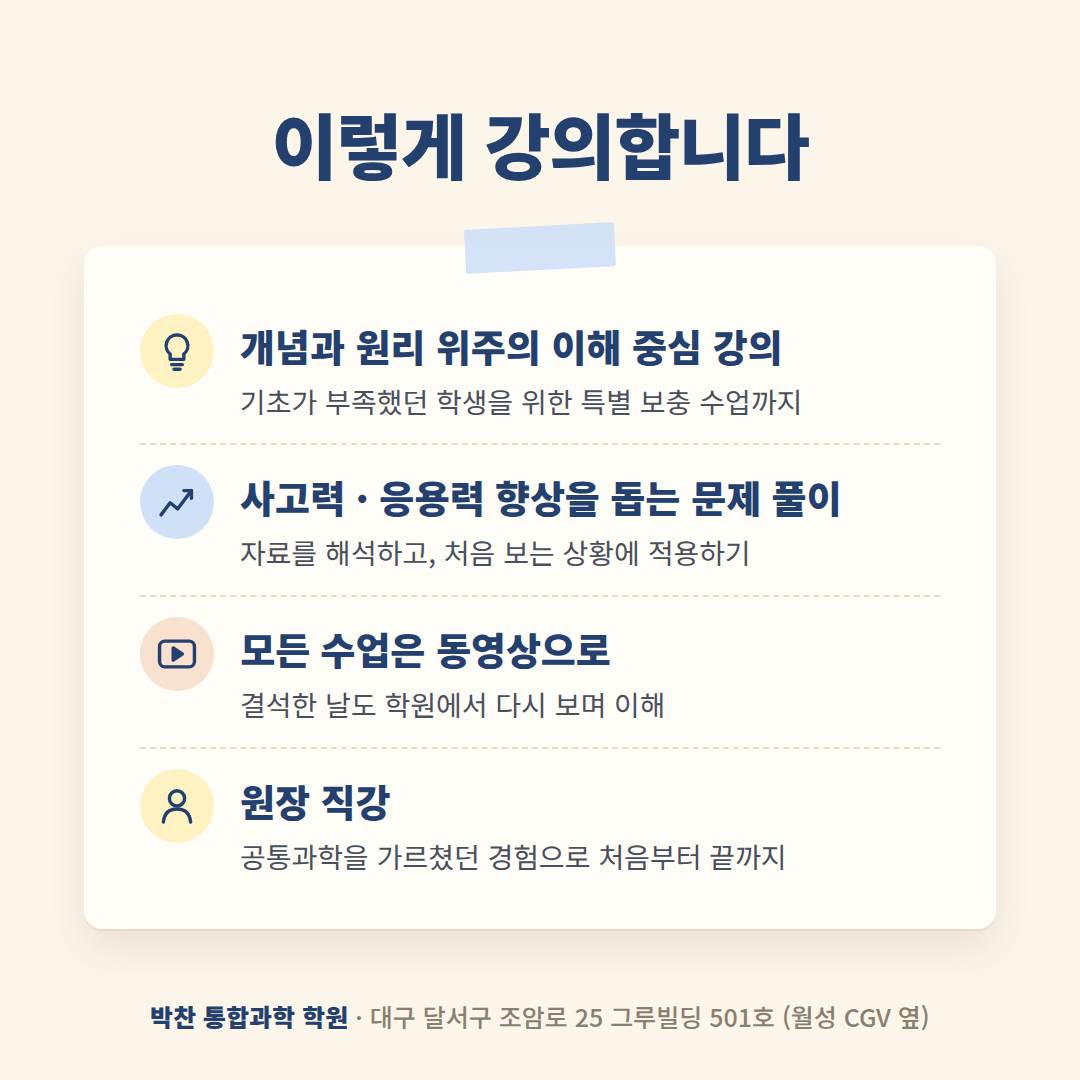
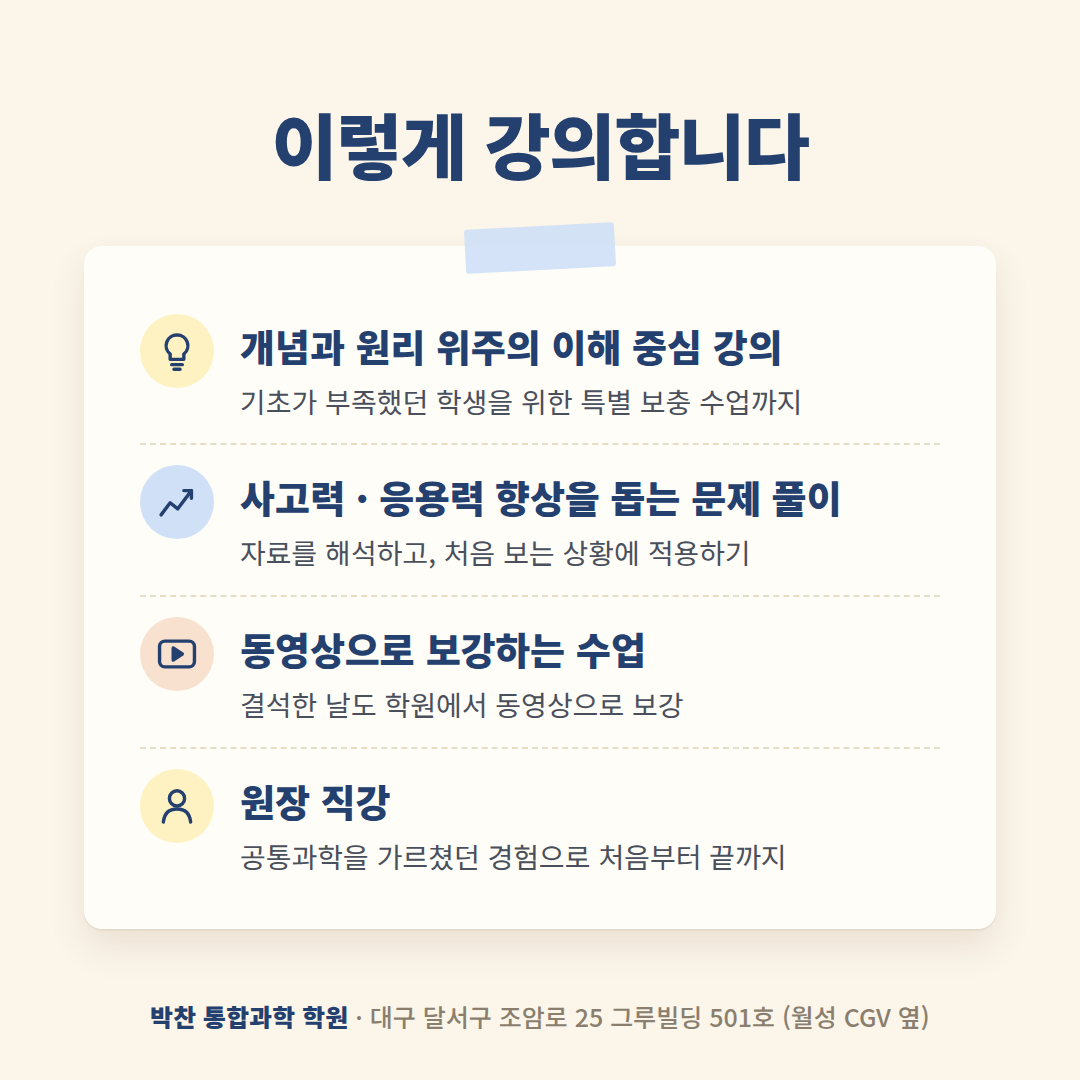
marketing: 상담 시간(오후 2시~10시) 블로그·당근에 넣고 당근 동영상 문구 정리
Claude-Session: https://claude.ai/code/session_01WC7EVNFFJZDdwaC3HYBAmj

Changed region(s): [[0.2139, 0.5806, 0.6417, 0.6722]]

diff --git a/parkchan-science/marketing/daangn-01/kit.html b/parkchan-science/marketing/daangn-01/kit.html
@@ -34,7 +34,7 @@ ol.how{margin:0;padding-left:20px;font-size:14.5px;color:var(--body)}ol.how li{m
 · 개념과 원리 위주의 이해 중심 강의
 · 기초가 부족한 학생을 위한 특별 보충 수업
 · 사고력 · 응용력 향상을 돕는 문제 풀이
-· 모든 수업은 동영상으로 — 결석한 날도 학원에서 다시 보기
+· 동영상으로 보강하는 수업 — 결석한 날도 학원에서 보강
 
 반: 중등부 · 고1 예비 · 고1 내신 · 고3 수능
 일주일 무료 수강 후 등록을 결정하실 수 있습니다.
@@ -45,12 +45,12 @@ ol.how{margin:0;padding-left:20px;font-size:14.5px;color:var(--body)}ol.how li{m
 · 개념과 원리 위주의 이해 중심 강의
 · 기초가 부족한 학생을 위한 특별 보충 수업
 · 사고력 · 응용력 향상을 돕는 문제 풀이
-· 모든 수업은 동영상으로 — 결석한 날도 학원에서 다시 보기
+· 동영상으로 보강하는 수업 — 결석한 날도 학원에서 보강
 
 반: 중등부 · 고1 예비 · 고1 내신 · 고3 수능
 일주일 무료 수강 후 등록을 결정하실 수 있습니다.
 
-남교입 제2019-115호</div></div><div class="fld"><div class="lab">주소<button class="cp" data-text="대구 달서구 조암로 25 그루빌딩 501호">복사</button></div><div class="val">대구 달서구 조암로 25 그루빌딩 501호</div></div><div class="fld"><div class="lab">주소 상세 · 찾아오는 길<button class="cp" data-text="월성 CGV 옆 그루빌딩 5층">복사</button></div><div class="val">월성 CGV 옆 그루빌딩 5층</div></div><div class="fld"><div class="lab">전화번호<button class="cp" data-text="053-213-3577">복사</button></div><div class="val">053-213-3577</div></div><div class="fld"><div class="lab">영업시간<button class="cp" data-text="【확인 필요】 상담 받는 요일·시간 — 예: 월~토 오후 2시 ~ 오후 10시 / 수업 시작 오후 5시 30분">복사</button></div><div class="val">【확인 필요】 상담 받는 요일·시간 — 예: 월~토 오후 2시 ~ 오후 10시 / 수업 시작 오후 5시 30분</div></div><div class="fld"><div class="lab">가격(메뉴) — 네 줄 각각 등록</div><div class="price"><span>중등부 주 1회 (월 총 1,042분)</span><b>210,000원</b><button class="cp" data-text="중등부 주 1회 (월 총 1,042분) 210,000원">복사</button></div><div class="price"><span>중등부 주 2회 (월 총 1,303분)</span><b>267,000원</b><button class="cp" data-text="중등부 주 2회 (월 총 1,303분) 267,000원">복사</button></div><div class="price"><span>고등부 주 1회 (월 총 912분)</span><b>220,000원</b><button class="cp" data-text="고등부 주 1회 (월 총 912분) 220,000원">복사</button></div><div class="price"><span>고등부 주 2회 · 고1 예비반 (월 총 1,303분)</span><b>317,000원</b><button class="cp" data-text="고등부 주 2회 · 고1 예비반 (월 총 1,303분) 317,000원">복사</button></div></div><div class="fld"><div class="lab">프로필 사진 · 매장 사진</div><div class="imgs"><figure><img src="images/00_profile.png" alt="프로필 사진 — 박찬 통합과학 학원 글자 로고"><figcaption>프로필 사진(원형으로 잘림)</figcaption></figure><figure><img src="images/photo_sign.png" alt="학원 외벽 간판"><figcaption>매장 사진 · 간판</figcaption></figure><figure><img src="images/photo_banner.png" alt="학원 입구 배너"><figcaption>매장 사진 · 입구</figcaption></figure></div><p class="note">매장 사진은 5장 이상이 좋습니다 — 원장님 폰으로 <b>강의실 · 수업 영상 시청 공간 · 교재 책상</b> 3장을 더 찍어 넣어 주십시오(학생 얼굴은 나오지 않게).</p></div></section>
+남교입 제2019-115호</div></div><div class="fld"><div class="lab">주소<button class="cp" data-text="대구 달서구 조암로 25 그루빌딩 501호">복사</button></div><div class="val">대구 달서구 조암로 25 그루빌딩 501호</div></div><div class="fld"><div class="lab">주소 상세 · 찾아오는 길<button class="cp" data-text="월성 CGV 옆 그루빌딩 5층">복사</button></div><div class="val">월성 CGV 옆 그루빌딩 5층</div></div><div class="fld"><div class="lab">전화번호<button class="cp" data-text="053-213-3577">복사</button></div><div class="val">053-213-3577</div></div><div class="fld"><div class="lab">영업시간 · 상담 시간<button class="cp" data-text="오후 2시 ~ 오후 10시 (수업 시작 오후 5시 30분)">복사</button></div><div class="val">오후 2시 ~ 오후 10시 (수업 시작 오후 5시 30분)</div></div><div class="fld"><div class="lab">가격(메뉴) — 네 줄 각각 등록</div><div class="price"><span>중등부 주 1회 (월 총 1,042분)</span><b>210,000원</b><button class="cp" data-text="중등부 주 1회 (월 총 1,042분) 210,000원">복사</button></div><div class="price"><span>중등부 주 2회 (월 총 1,303분)</span><b>267,000원</b><button class="cp" data-text="중등부 주 2회 (월 총 1,303분) 267,000원">복사</button></div><div class="price"><span>고등부 주 1회 (월 총 912분)</span><b>220,000원</b><button class="cp" data-text="고등부 주 1회 (월 총 912분) 220,000원">복사</button></div><div class="price"><span>고등부 주 2회 · 고1 예비반 (월 총 1,303분)</span><b>317,000원</b><button class="cp" data-text="고등부 주 2회 · 고1 예비반 (월 총 1,303분) 317,000원">복사</button></div></div><div class="fld"><div class="lab">프로필 사진 · 매장 사진</div><div class="imgs"><figure><img src="images/00_profile.png" alt="프로필 사진 — 박찬 통합과학 학원 글자 로고"><figcaption>프로필 사진(원형으로 잘림)</figcaption></figure><figure><img src="images/photo_sign.png" alt="학원 외벽 간판"><figcaption>매장 사진 · 간판</figcaption></figure><figure><img src="images/photo_banner.png" alt="학원 입구 배너"><figcaption>매장 사진 · 입구</figcaption></figure></div><p class="note">매장 사진은 5장 이상이 좋습니다 — 원장님 폰으로 <b>강의실 · 수업 영상 시청 공간 · 교재 책상</b> 3장을 더 찍어 넣어 주십시오(학생 얼굴은 나오지 않게).</p></div></section>
 <section class="box"><h2>② 쿠폰 만들기</h2><div class="fld"><div class="lab">쿠폰 이름<button class="cp" data-text="고1 예비반 일주일 무료 수강">복사</button></div><div class="val">고1 예비반 일주일 무료 수강</div></div><div class="fld"><div class="lab">쿠폰 내용<button class="cp" data-text="현 중3 학생을 위한 고1 예비반 수업을 일주일 동안 무료로 들어 보실 수 있습니다. 상담 전화(053-213-3577) 또는 내원 후 수강 예약을 해 주십시오.">복사</button></div><div class="val">현 중3 학생을 위한 고1 예비반 수업을 일주일 동안 무료로 들어 보실 수 있습니다. 상담 전화(053-213-3577) 또는 내원 후 수강 예약을 해 주십시오.</div></div><div class="fld"><div class="lab">사용 기간<button class="cp" data-text="2026년 10월 13일 ~ 11월 9일 (개강 첫 주까지)">복사</button></div><div class="val">2026년 10월 13일 ~ 11월 9일 (개강 첫 주까지)</div></div><div class="fld"><div class="lab">유의 사항<button class="cp" data-text="고1 예비반(화금반 · 수토반) 대상 · 수강 예약 후 사용">복사</button></div><div class="val">고1 예비반(화금반 · 수토반) 대상 · 수강 예약 후 사용</div></div></section>
 <section class="box"><h2>③ 소식 6편 — 화·금 주 2회</h2><p class="note">첫 줄이 피드에 보이는 문장입니다. 사진을 먼저 올리고 글을 붙여 넣으면 됩니다. 마지막 줄(등록번호·교습비)은 지우지 마십시오.</p><article class="news"><div class="when">소식 1 · 10월 13일(화)</div><div class="imgs"><figure><img src="images/ad_B_cream.png" alt="소식 1 사진 1"></figure><figure><img src="images/02_period.png" alt="소식 1 사진 2"></figure></div><div class="fld"><div class="lab">글<button class="cp" data-text="내년 봄 처음 만나는 &#x27;통합과학&#x27;, 차근차근 준비하실 수 있도록 안내드립니다.
 
@@ -65,7 +65,7 @@ ol.how{margin:0;padding-left:20px;font-size:14.5px;color:var(--body)}ol.how li{m
 이 두 권을 3월 입학 전까지 확실히 지도하겠습니다.
 
 먼저 일주일 들어 보시고 등록을 결정하셔도 됩니다.
-상담 053-213-3577 · 조암로 25 그루빌딩 501호 (월성 CGV 옆)
+상담 053-213-3577 (오후 2시 ~ 10시) · 조암로 25 그루빌딩 501호 (월성 CGV 옆)
 
 남교입 제2019-115호 · 고1 예비반 교습비 월 317,000원(주 2회 · 월 1,303분)">복사</button></div><div class="val big">내년 봄 처음 만나는 &#x27;통합과학&#x27;, 차근차근 준비하실 수 있도록 안내드립니다.
 
@@ -80,7 +80,7 @@ ol.how{margin:0;padding-left:20px;font-size:14.5px;color:var(--body)}ol.how li{m
 이 두 권을 3월 입학 전까지 확실히 지도하겠습니다.
 
 먼저 일주일 들어 보시고 등록을 결정하셔도 됩니다.
-상담 053-213-3577 · 조암로 25 그루빌딩 501호 (월성 CGV 옆)
+상담 053-213-3577 (오후 2시 ~ 10시) · 조암로 25 그루빌딩 501호 (월성 CGV 옆)
 
 남교입 제2019-115호 · 고1 예비반 교습비 월 317,000원(주 2회 · 월 1,303분)</div></div></article><article class="news"><div class="when">소식 2 · 10월 16일(금)</div><div class="imgs"><figure><img src="images/03_twice.png" alt="소식 2 사진 1"></figure></div><div class="fld"><div class="lab">글<button class="cp" data-text="왜 예비반은 주 2회일까요? 원장이 직접 말씀드립니다.
 
@@ -114,8 +114,8 @@ ol.how{margin:0;padding-left:20px;font-size:14.5px;color:var(--body)}ol.how li{m
 ② 사고력 · 응용력 향상을 돕는 문제 풀이
 자료를 해석하고, 처음 보는 상황에 개념을 적용하는 문제를 함께 풉니다.
 
-③ 모든 수업은 동영상으로
-모든 수업은 수업 전에 동영상으로 제작되어 있습니다. 강의 후 부족하다고 느낀 부분이나 결석한 날의 수업도 학원에서 다시 보며 충분히 이해할 수 있습니다.
+③ 동영상으로 보강하는 수업
+모든 수업은 수업 전에 동영상으로 제작되어 있습니다. 강의 후 부족하다고 느낀 부분이나 결석한 날의 수업도 학원에서 동영상으로 보강할 수 있습니다.
 
 ④ 원장 직강
 통합과학의 전신인 공통과학을 가르쳤던 경험과 오랜 입시 지도의 경험으로, 처음부터 끝까지 직접 가르치고 상담합니다.
@@ -130,8 +130,8 @@ ol.how{margin:0;padding-left:20px;font-size:14.5px;color:var(--body)}ol.how li{m
 ② 사고력 · 응용력 향상을 돕는 문제 풀이
 자료를 해석하고, 처음 보는 상황에 개념을 적용하는 문제를 함께 풉니다.
 
-③ 모든 수업은 동영상으로
-모든 수업은 수업 전에 동영상으로 제작되어 있습니다. 강의 후 부족하다고 느낀 부분이나 결석한 날의 수업도 학원에서 다시 보며 충분히 이해할 수 있습니다.
+③ 동영상으로 보강하는 수업
+모든 수업은 수업 전에 동영상으로 제작되어 있습니다. 강의 후 부족하다고 느낀 부분이나 결석한 날의 수업도 학원에서 동영상으로 보강할 수 있습니다.
 
 ④ 원장 직강
 통합과학의 전신인 공통과학을 가르쳤던 경험과 오랜 입시 지도의 경험으로, 처음부터 끝까지 직접 가르치고 상담합니다.

diff --git a/parkchan-science/marketing/daangn-01/images_source.html b/parkchan-science/marketing/daangn-01/images_source.html
@@ -194,7 +194,7 @@ h2{font-size:58px;font-weight:900;line-height:1.3;letter-spacing:-.02em;color:va
  <h2 style="text-align:center;margin-top:18px">고1 예비반 · 일주일 무료 수강</h2>
  <div class="stp4"><div><em>1</em><b>상담 전화<br>또는 내원</b></div><i>›</i><div><em>2</em><b>수강 예약</b></div><i>›</i><div class="now"><em>3</em><b>일주일<br>무료 수강</b></div><i>›</i><div><em>4</em><b>등록 결정</b></div></div>
  <p class="dates">화금반 <b>11월 3일(화)</b> · 수토반 <b>11월 4일(수)</b> 개강<br>주 2회 · 오후 5시 30분 시작</p><div class="tel2"><span>상담<b>053-213-3577</b></span></div></div><div class="foot"><b>박찬 통합과학 학원</b> · 대구 달서구 조암로 25 그루빌딩 501호 (월성 CGV 옆)</div></section>
-<section class="sq cream" id="news"><div class="pad"><h2>이렇게 강의합니다</h2><div class="note"><span class="tape b"></span><div class="row"><div class="ic" style="background:var(--butter2)"><svg width="44" height="44" viewBox="0 0 58 58" fill="none" stroke="#24406F" stroke-width="4.5" stroke-linecap="round" stroke-linejoin="round"><path d="M29 8 a14 14 0 0 1 9 25 L38 40 L20 40 L20 33 A14 14 0 0 1 29 8 Z"/><path d="M22 47 L36 47 M25 53 L33 53"/></svg></div><div><b>개념과 원리 위주의 이해 중심 강의</b><span>기초가 부족했던 학생을 위한 특별 보충 수업까지</span></div></div><div class="row"><div class="ic" style="background:var(--sky)"><svg width="44" height="44" viewBox="0 0 58 58" fill="none" stroke="#24406F" stroke-width="4.5" stroke-linecap="round" stroke-linejoin="round"><path d="M8 46 L20 30 L30 38 L48 14"/><path d="M38 14 L48 14 L48 24"/></svg></div><div><b>사고력 · 응용력 향상을 돕는 문제 풀이</b><span>자료를 해석하고, 처음 보는 상황에 적용하기</span></div></div><div class="row"><div class="ic" style="background:#F9E1D0"><svg width="44" height="44" viewBox="0 0 58 58" fill="none" stroke="#24406F" stroke-width="4.5" stroke-linecap="round" stroke-linejoin="round"><rect x="6" y="12" width="46" height="34" rx="7"/><path d="M24 21 L36 29 L24 37 Z" fill="#24406F"/></svg></div><div><b>모든 수업은 동영상으로</b><span>결석한 날도 학원에서 다시 보며 이해</span></div></div><div class="row"><div class="ic" style="background:var(--butter2)"><svg width="44" height="44" viewBox="0 0 58 58" fill="none" stroke="#24406F" stroke-width="4.5" stroke-linecap="round" stroke-linejoin="round"><circle cx="29" cy="19" r="10"/><path d="M11 50 Q13 33 29 33 Q45 33 47 50"/></svg></div><div><b>원장 직강</b><span>공통과학을 가르쳤던 경험으로 처음부터 끝까지</span></div></div></div></div><div class="foot"><b>박찬 통합과학 학원</b> · 대구 달서구 조암로 25 그루빌딩 501호 (월성 CGV 옆)</div></section>
+<section class="sq cream" id="news"><div class="pad"><h2>이렇게 강의합니다</h2><div class="note"><span class="tape b"></span><div class="row"><div class="ic" style="background:var(--butter2)"><svg width="44" height="44" viewBox="0 0 58 58" fill="none" stroke="#24406F" stroke-width="4.5" stroke-linecap="round" stroke-linejoin="round"><path d="M29 8 a14 14 0 0 1 9 25 L38 40 L20 40 L20 33 A14 14 0 0 1 29 8 Z"/><path d="M22 47 L36 47 M25 53 L33 53"/></svg></div><div><b>개념과 원리 위주의 이해 중심 강의</b><span>기초가 부족했던 학생을 위한 특별 보충 수업까지</span></div></div><div class="row"><div class="ic" style="background:var(--sky)"><svg width="44" height="44" viewBox="0 0 58 58" fill="none" stroke="#24406F" stroke-width="4.5" stroke-linecap="round" stroke-linejoin="round"><path d="M8 46 L20 30 L30 38 L48 14"/><path d="M38 14 L48 14 L48 24"/></svg></div><div><b>사고력 · 응용력 향상을 돕는 문제 풀이</b><span>자료를 해석하고, 처음 보는 상황에 적용하기</span></div></div><div class="row"><div class="ic" style="background:#F9E1D0"><svg width="44" height="44" viewBox="0 0 58 58" fill="none" stroke="#24406F" stroke-width="4.5" stroke-linecap="round" stroke-linejoin="round"><rect x="6" y="12" width="46" height="34" rx="7"/><path d="M24 21 L36 29 L24 37 Z" fill="#24406F"/></svg></div><div><b>동영상으로 보강하는 수업</b><span>결석한 날도 학원에서 동영상으로 보강</span></div></div><div class="row"><div class="ic" style="background:var(--butter2)"><svg width="44" height="44" viewBox="0 0 58 58" fill="none" stroke="#24406F" stroke-width="4.5" stroke-linecap="round" stroke-linejoin="round"><circle cx="29" cy="19" r="10"/><path d="M11 50 Q13 33 29 33 Q45 33 47 50"/></svg></div><div><b>원장 직강</b><span>공통과학을 가르쳤던 경험으로 처음부터 끝까지</span></div></div></div></div><div class="foot"><b>박찬 통합과학 학원</b> · 대구 달서구 조암로 25 그루빌딩 501호 (월성 CGV 옆)</div></section>
 <script>
 Promise.all([document.fonts.load('900 100px S'),document.fonts.load('800 100px S')]).then(()=>{document.querySelectorAll('.fit').forEach(el=>{el.style.whiteSpace='nowrap';el.style.display='inline-block';const W=+el.dataset.w,H=+el.dataset.h;let lo=10,hi=500;for(let k=0;k<28;k++){const m=(lo+hi)/2;el.style.fontSize=m+'px';const r=el.getBoundingClientRect();(r.width<=W&&r.height<=H)?lo=m:hi=m}el.style.fontSize=lo+'px'});document.body.dataset.ok=1});
 </script></body></html>

diff --git a/parkchan-science/marketing/blog-16/kit.html b/parkchan-science/marketing/blog-16/kit.html
@@ -160,6 +160,7 @@ mark{background:var(--soft);color:var(--ink);outline:1px solid var(--gold);borde
 그루빌딩 501호 (월성 CGV 옆)
 
 상담 문의 053-213-3577
+상담 시간 오후 2시 ~ 오후 10시
 
 【장소 · 네이버 지도 주소 등록이 끝나면 넣기 — 지금은 이 줄만 지우기】
 
@@ -228,7 +229,7 @@ mark{background:var(--soft);color:var(--ink);outline:1px solid var(--gold);borde
 <p><br></p><p style="margin:0;line-height:1.9;text-align:center;">【소제목 · 인용구】 <b>오시는 길</b></p><p><br></p>
 <p style="margin:0;line-height:1.9;text-align:center;">대구 달서구 조암로 25<br><b>그루빌딩 501호</b> (월성 CGV 옆)</p>
 <p><br></p>
-<p style="margin:0;line-height:1.9;text-align:center;">상담 문의 <b>053-213-3577</b></p>
+<p style="margin:0;line-height:1.9;text-align:center;">상담 문의 <b>053-213-3577</b><br>상담 시간 오후 2시 ~ 오후 10시</p>
 <p><br></p>
 <p style="margin:0;line-height:1.9;">【장소 · 네이버 지도 주소 등록이 끝나면 넣기 — 지금은 이 줄만 지우기】</p>
 <p><br></p>
@@ -281,7 +282,7 @@ mark{background:var(--soft);color:var(--ink);outline:1px solid var(--gold);borde
 <figure><img src="images/06_free.png" alt="일주일 무료 수강 후 등록 · 대구 달서구 조암로 25 그루빌딩 501호(월성 CGV 옆) · 053-213-3577"><figcaption>사진 6 · 06_free.png</figcaption></figure>
 <blockquote>오시는 길</blockquote>
 <p class="c">대구 달서구 조암로 25<br><b>그루빌딩 501호</b> (월성 CGV 옆)</p>
-<p class="c">상담 문의 <b><span class="nw">053-213-3577</span></b></p>
+<p class="c">상담 문의 <b><span class="nw">053-213-3577</span></b><br>상담 시간 오후 2시 ~ 오후 10시</p>
 <div class="place">지도 자리 — 네이버 지도 주소 등록이 끝나면 [장소] 버튼으로 넣습니다(지금은 비워 둠)</div>
 <p class="c">처음 만나는 통합과학,<br>아이가 자신 있게 시작할 수 있도록<br>정성껏 준비하겠습니다.<br>편하게 전화 주십시오.</p>
 <p class="c">감사합니다.</p>

diff --git a/parkchan-science/marketing/daangn-01/build_kit.py b/parkchan-science/marketing/daangn-01/build_kit.py
@@ -11,7 +11,7 @@ PROFILE = [
 · 개념과 원리 위주의 이해 중심 강의
 · 기초가 부족한 학생을 위한 특별 보충 수업
 · 사고력 · 응용력 향상을 돕는 문제 풀이
-· 모든 수업은 동영상으로 — 결석한 날도 학원에서 다시 보기
+· 동영상으로 보강하는 수업 — 결석한 날도 학원에서 보강
 
 반: 중등부 · 고1 예비 · 고1 내신 · 고3 수능
 일주일 무료 수강 후 등록을 결정하실 수 있습니다.
@@ -20,7 +20,7 @@ PROFILE = [
  ("주소", "대구 달서구 조암로 25 그루빌딩 501호"),
  ("주소 상세 · 찾아오는 길", "월성 CGV 옆 그루빌딩 5층"),
  ("전화번호", "053-213-3577"),
- ("영업시간", "【확인 필요】 상담 받는 요일·시간 — 예: 월~토 오후 2시 ~ 오후 10시 / 수업 시작 오후 5시 30분"),
+ ("영업시간 · 상담 시간", "오후 2시 ~ 오후 10시 (수업 시작 오후 5시 30분)"),
 ]
 PRICES = [
  ("중등부 주 1회 (월 총 1,042분)", "210,000원"),
@@ -48,7 +48,7 @@ NEWS = [
 이 두 권을 3월 입학 전까지 확실히 지도하겠습니다.
 
 먼저 일주일 들어 보시고 등록을 결정하셔도 됩니다.
-상담 053-213-3577 · 조암로 25 그루빌딩 501호 (월성 CGV 옆)"""),
+상담 053-213-3577 (오후 2시 ~ 10시) · 조암로 25 그루빌딩 501호 (월성 CGV 옆)"""),
  ("10월 16일(금)", ["03_twice.png"], """왜 예비반은 주 2회일까요? 원장이 직접 말씀드립니다.
 
 평소 강의를 해 보면, 시간의 여유가 많을수록 더 상세히 설명하고 더 많은 문제를 함께 풀 수 있었습니다.
@@ -68,8 +68,8 @@ NEWS = [
 ② 사고력 · 응용력 향상을 돕는 문제 풀이
 자료를 해석하고, 처음 보는 상황에 개념을 적용하는 문제를 함께 풉니다.
 
-③ 모든 수업은 동영상으로
-모든 수업은 수업 전에 동영상으로 제작되어 있습니다. 강의 후 부족하다고 느낀 부분이나 결석한 날의 수업도 학원에서 다시 보며 충분히 이해할 수 있습니다.
+③ 동영상으로 보강하는 수업
+모든 수업은 수업 전에 동영상으로 제작되어 있습니다. 강의 후 부족하다고 느낀 부분이나 결석한 날의 수업도 학원에서 동영상으로 보강할 수 있습니다.
 
 ④ 원장 직강
 통합과학의 전신인 공통과학을 가르쳤던 경험과 오랜 입시 지도의 경험으로, 처음부터 끝까지 직접 가르치고 상담합니다.

diff --git a/parkchan-science/marketing/daangn-01/content.md b/parkchan-science/marketing/daangn-01/content.md
@@ -10,7 +10,7 @@
 · 개념과 원리 위주의 이해 중심 강의
 · 기초가 부족한 학생을 위한 특별 보충 수업
 · 사고력 · 응용력 향상을 돕는 문제 풀이
-· 모든 수업은 동영상으로 — 결석한 날도 학원에서 다시 보기
+· 동영상으로 보강하는 수업 — 결석한 날도 학원에서 보강
 
 반: 중등부 · 고1 예비 · 고1 내신 · 고3 수능
 일주일 무료 수강 후 등록을 결정하실 수 있습니다.
@@ -19,7 +19,7 @@
 - **주소**: 대구 달서구 조암로 25 그루빌딩 501호
 - **주소 상세 · 찾아오는 길**: 월성 CGV 옆 그루빌딩 5층
 - **전화번호**: 053-213-3577
-- **영업시간**: 【확인 필요】 상담 받는 요일·시간 — 예: 월~토 오후 2시 ~ 오후 10시 / 수업 시작 오후 5시 30분
+- **영업시간 · 상담 시간**: 오후 2시 ~ 오후 10시 (수업 시작 오후 5시 30분)
 
 ## 가격
 - 중등부 주 1회 (월 총 1,042분) — 210,000원
@@ -50,7 +50,7 @@
 이 두 권을 3월 입학 전까지 확실히 지도하겠습니다.
 
 먼저 일주일 들어 보시고 등록을 결정하셔도 됩니다.
-상담 053-213-3577 · 조암로 25 그루빌딩 501호 (월성 CGV 옆)
+상담 053-213-3577 (오후 2시 ~ 10시) · 조암로 25 그루빌딩 501호 (월성 CGV 옆)
 
 남교입 제2019-115호 · 고1 예비반 교습비 월 317,000원(주 2회 · 월 1,303분)
 
@@ -80,8 +80,8 @@
 ② 사고력 · 응용력 향상을 돕는 문제 풀이
 자료를 해석하고, 처음 보는 상황에 개념을 적용하는 문제를 함께 풉니다.
 
-③ 모든 수업은 동영상으로
-모든 수업은 수업 전에 동영상으로 제작되어 있습니다. 강의 후 부족하다고 느낀 부분이나 결석한 날의 수업도 학원에서 다시 보며 충분히 이해할 수 있습니다.
+③ 동영상으로 보강하는 수업
+모든 수업은 수업 전에 동영상으로 제작되어 있습니다. 강의 후 부족하다고 느낀 부분이나 결석한 날의 수업도 학원에서 동영상으로 보강할 수 있습니다.
 
 ④ 원장 직강
 통합과학의 전신인 공통과학을 가르쳤던 경험과 오랜 입시 지도의 경험으로, 처음부터 끝까지 직접 가르치고 상담합니다.

diff --git a/parkchan-science/marketing/README.md b/parkchan-science/marketing/README.md
@@ -5,7 +5,7 @@
 |---|---|
 | 이름 | **박찬 통합과학 학원** (앱 이름 '박찬 과학 · 하루 한 개념'과 다름에 주의) |
 | 위치 | **대구 달서구 조암로 25, 그루빌딩 501호 (월성 CGV 옆)** — 2026-10-10 원장님 확정('월성 CGV 건물 5층'은 옛 표기, 쓰지 않음). 네이버 지도 장소 등록 전이라 글에 지도는 아직 넣지 않음 |
-| 상담 | **053-213-3577** |
+| 상담 | **053-213-3577** · 상담 시간 오후 2시 ~ 오후 10시 |
 | 등록 | 제2019-115호 |
 | 교습비(월) | 중등부 주1회 21만 원 · 주2회 26만 7,000원 / 고등부 주1회 22만 원 · 주2회 31만 7,000원 |
 | 교육청 등록표(2026-10-06 적용, 원장님 사진) | 중등부 과학A 240분×주1 → 월 1,042분 21만 원 · 과학B 150분×주2 → 1,303분 26만 7,000원 / 고등부 과학A 210분×주1 → 912분 22만 원 · 과학B 150분×주2 → 1,303분 31만 7,000원 (월 4.345주, 정원 16) |
@@ -120,3 +120,4 @@
 - 당근 전화번호는 053 포함(폰 사용자) — 전광판만 T. 213-3577.
 - 내용 고치기: `daangn-01/build_kit.py` 의 PROFILE·COUPON·NEWS·ADS → `python3 build_kit.py daangn-01 kit.tpl.html`. 그림: `images_source.html`(Playwright 요소 스크린샷).
 - 블로그 글 끝 서명 '박찬 드림'은 쓰지 않는다(2026-10-11 원장님) — '감사합니다.'로 끝.
+- **상담 시간: 오후 2시 ~ 오후 10시**(2026-10-11 원장님) — 요일은 아직 안 정함【확인 필요】. 블로그 '오시는 길'·당근 영업시간에 씀.
